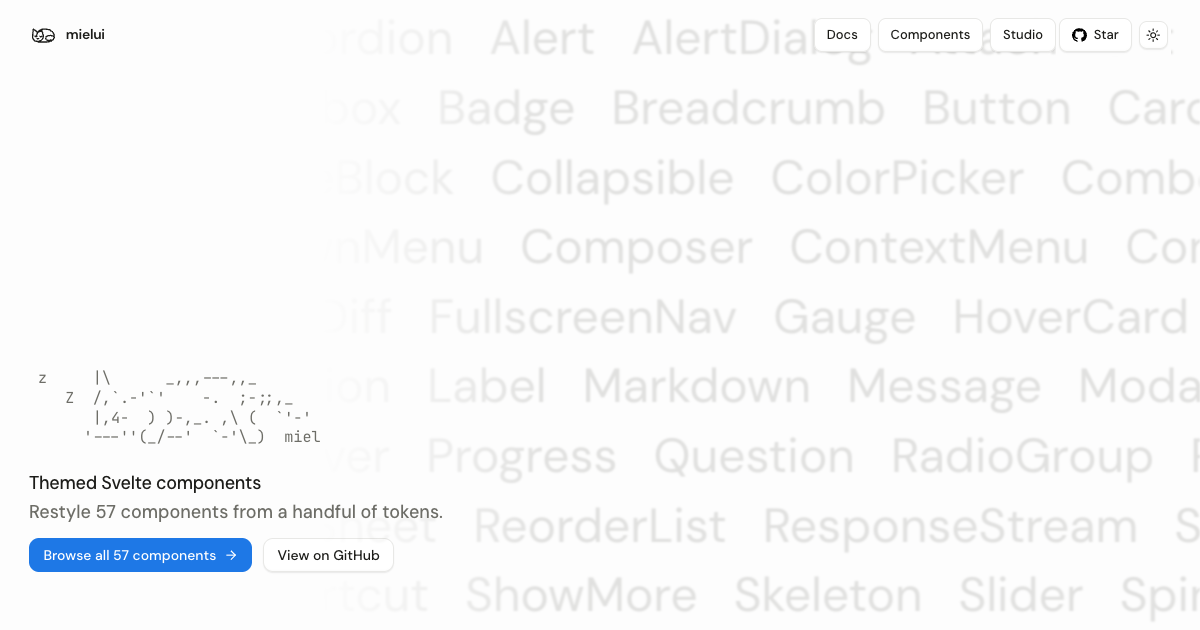
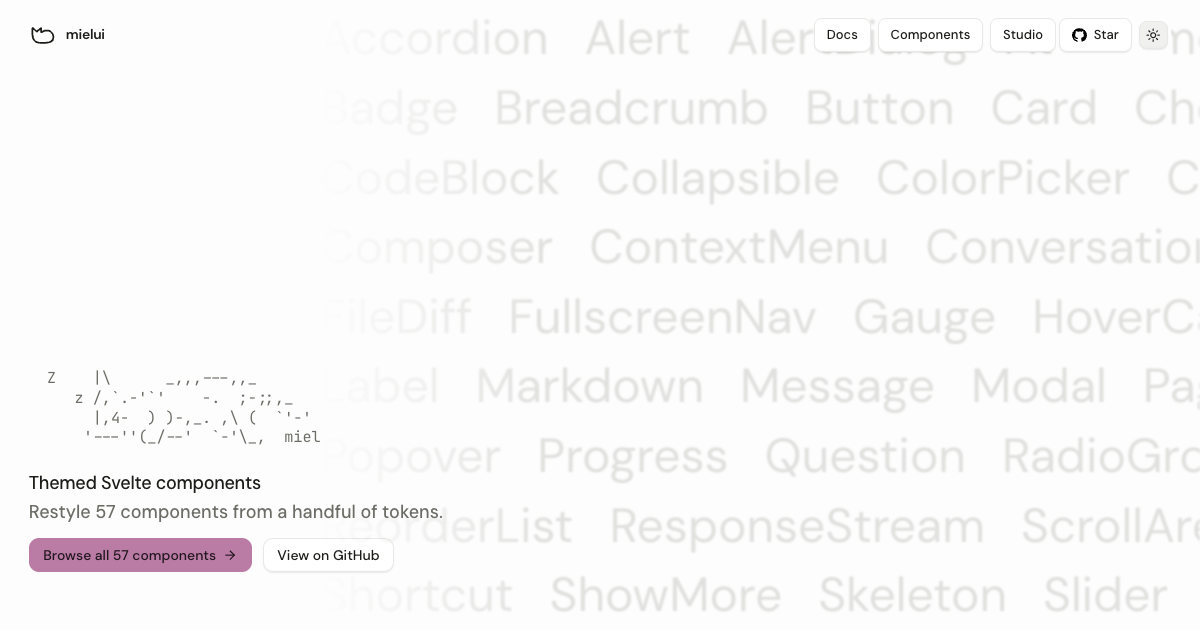
fix(theme): use mauve as the default accent

diff --git a/packages/mielui/src/themes/theme.ts b/packages/mielui/src/themes/theme.ts
@@ -109,7 +109,7 @@ export const DEFAULT_THEME: Theme = {
     name: 'Default',
     description: 'Mielui default — a calm, warm-neutral interface system.',
     publisher: 'mielui',
-    brand: '#1e78e6',
+    brand: '#ba7ca5',
     neutral: 'warm',
     radius: 'default',
     density: 'default',
@@ -265,23 +265,11 @@ function brandDeclarations(brand: string, mode: 'light' | 'dark') {
     const isDefault = brand.toLowerCase() === DEFAULT_THEME.brand;
     return [
         `--color-primary: ${brand};`,
-        // Darken the brand itself so hover keeps its hue instead of shifting teal.
-        `--color-primary-hover: color-mix(in srgb, ${brand} 78%, black);`,
+        `--color-primary-hover: color-mix(in srgb, ${brand} ${isDefault ? '88%, white' : '78%, black'});`,
+        `--color-on-primary: ${isDefault ? '#21151e' : '#ffffff'};`,
         `--color-ring: color-mix(in srgb, ${brand} 30%, transparent);`,
-        `--mielui-blue-500: ${
-            isDefault
-                ? mode === 'light'
-                    ? 'hsl(212.2 100% 64.5%)'
-                    : 'hsl(216.6 100% 67.8%)'
-                : brand
-        };`,
-        `--mielui-blue-50: ${
-            isDefault
-                ? mode === 'light'
-                    ? 'hsl(218.8 100% 96.7%)'
-                    : 'hsl(217.1 52.5% 15.7%)'
-                : `color-mix(in srgb, ${brand} 12%, ${mode === 'light' ? 'white' : 'black'})`
-        };`
+        `--mielui-blue-500: ${brand};`,
+        `--mielui-blue-50: color-mix(in srgb, ${brand} 12%, ${mode === 'light' ? 'white' : 'black'});`
     ];
 }
 

diff --git a/packages/mielui/src/ui.css b/packages/mielui/src/ui.css
@@ -24,8 +24,8 @@
     --mielui-neutral-300: hsl(60 4.4% 82.4%);
     --mielui-neutral-500: hsl(60 3% 41.5%);
     --mielui-neutral-900: hsl(60 5.7% 10.4%);
-    --mielui-blue-50: hsl(218.8 100% 96.7%);
-    --mielui-blue-500: hsl(212.2 100% 64.5%);
+    --mielui-blue-50: color-mix(in srgb, #ba7ca5 12%, white);
+    --mielui-blue-500: #ba7ca5;
     --mielui-success: hsl(148.7 42.2% 42.7%);
     --mielui-warning: hsl(36.1 64.8% 47.8%);
     --mielui-error: hsl(0 57.7% 56.5%);
@@ -142,9 +142,9 @@
     --color-input: var(--mielui-neutral-300);
     --color-foreground: var(--mielui-neutral-900);
     --color-foreground-muted: var(--mielui-neutral-500);
-    --color-primary: #1e78e6;
-    --color-primary-hover: color-mix(in srgb, var(--color-primary) 78%, black);
-    --color-on-primary: hsl(0 0% 100%);
+    --color-primary: #ba7ca5;
+    --color-primary-hover: color-mix(in srgb, var(--color-primary) 88%, white);
+    --color-on-primary: #21151e;
     --color-button-foreground: var(--color-foreground);
     --color-primary-stroke: transparent;
     --color-accent-tint: var(--mielui-blue-50);
@@ -201,8 +201,8 @@
     --mielui-neutral-300: hsl(0 0% 22.7%);
     --mielui-neutral-500: hsl(0 0% 65%);
     --mielui-neutral-900: hsl(0 0% 93%);
-    --mielui-blue-50: hsl(217.1 52.5% 15.7%);
-    --mielui-blue-500: hsl(216.6 100% 67.8%);
+    --mielui-blue-50: color-mix(in srgb, #ba7ca5 12%, black);
+    --mielui-blue-500: #ba7ca5;
     --mielui-success: hsl(149.7 39.4% 49.2%);
     --mielui-warning: hsl(37.3 72.6% 55.7%);
     --mielui-error: hsl(0 66.7% 63.5%);

diff --git a/apps/docs/tests/unit/mielui/theme.test.ts b/apps/docs/tests/unit/mielui/theme.test.ts
@@ -11,7 +11,7 @@ describe('DEFAULT_THEME', () => {
     it('matches the public visual axes baked into ui.css', () => {
         expect(DEFAULT_THEME).toMatchObject({
             version: THEME_VERSION,
-            brand: '#1e78e6',
+            brand: '#ba7ca5',
             neutral: 'warm',
             radius: 'default',
             density: 'default',
@@ -28,7 +28,7 @@ describe('themeToCss', () => {
     it('emits fonts, radii, density, brand, motion, and mode-specific neutrals', () => {
         expect(css).toContain("--font-sans: 'Inter', sans-serif");
         expect(css).toContain('--radius-lg: 10px');
-        expect(css).toContain('--color-primary: #1e78e6');
+        expect(css).toContain('--color-primary: #ba7ca5');
         expect(css).toContain('--mielui-space-unit: 3.6px');
         expect(css).toContain('--motion-duration-menu: 40ms');
         expect(css).toContain(':root {');

diff --git a/apps/docs/tests/unit/mielui/ui-css.test.ts b/apps/docs/tests/unit/mielui/ui-css.test.ts
@@ -59,7 +59,7 @@ describe('ui.css Tier 2 semantic', () => {
     it('maps semantic color tokens to neutral/blue primitives', () => {
         expect(css).toContain('--color-background: var(--mielui-neutral-10)');
         expect(css).toContain('--color-card: var(--mielui-neutral-0)');
-        expect(css).toContain('--color-primary: #1e78e6');
+        expect(css).toContain('--color-primary: #ba7ca5');
         expect(css).toContain(
             '--color-ring: color-mix(in srgb, var(--color-primary) 30%, transparent)'
         );

diff --git a/apps/docs/tests/unit/mielui/theme.browser.test.ts b/apps/docs/tests/unit/mielui/theme.browser.test.ts
@@ -19,6 +19,7 @@ const PARITY_PROPERTIES = [
     '--motion-duration-toast-out',
     '--color-primary',
     '--color-primary-hover',
+    '--color-on-primary',
     '--mielui-blue-50',
     '--mielui-blue-500',
     ...([0, 10, 50, 100, 150, 300, 500, 900].map((step) => `--mielui-neutral-${step}`) as string[])

diff --git a/changelog/0.1.0/llm.md b/changelog/0.1.0/llm.md
@@ -1,3 +1,5 @@
 Mielui starts at version 0.1.0. The imported Sivir UI package was version 0.3.3; the two projects now have independent release numbers.
 
 Use `@mielui/svelte` for imports and `mielui` for CLI commands. Sivir release notes are retained in `docs/upstream-changelog/` as historical reference, outside Mielui's active changelog. The imported component APIs are unchanged by this version reset.
+
+The default brand is `#ba7ca5`. Primary button labels use `--color-on-primary` with dark ink; do not hardcode white text on the new default accent.

diff --git a/changelog/0.1.0/docs.md b/changelog/0.1.0/docs.md
@@ -1,3 +1,4 @@
 - Initialize Mielui from Sivir UI with renamed packages and docs, preserved MIT attribution, and sleeping-cat branding.
 - Start Mielui releases at 0.1.0, independently of upstream Sivir UI versions.
 - Simplify the sleeping-cat favicon and matching logo to a single outline.
+- Use a mauve default accent with dark button labels and a lighter hover state.
